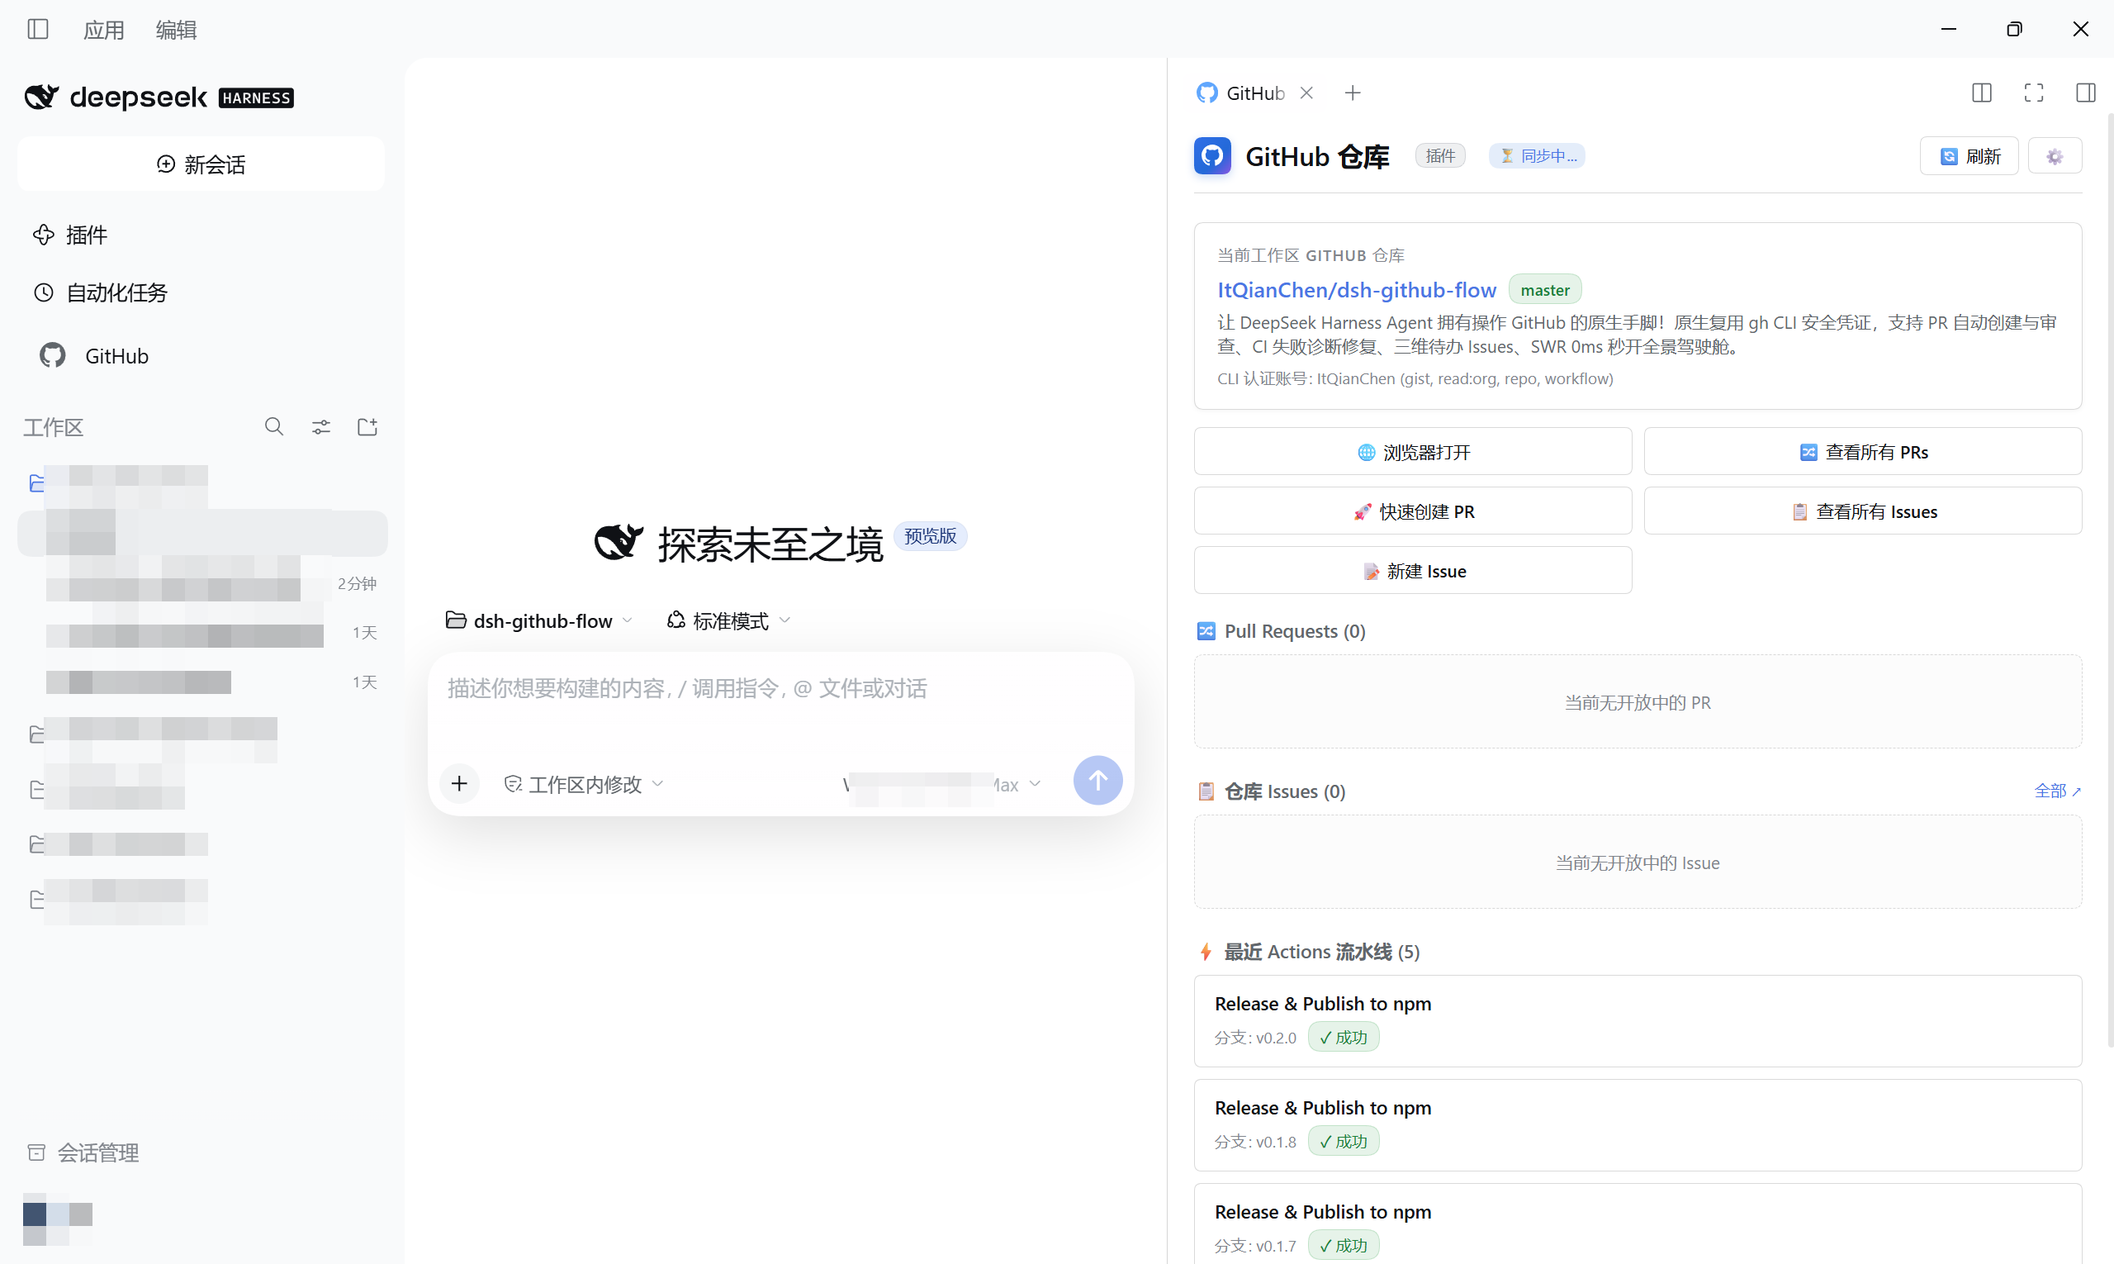
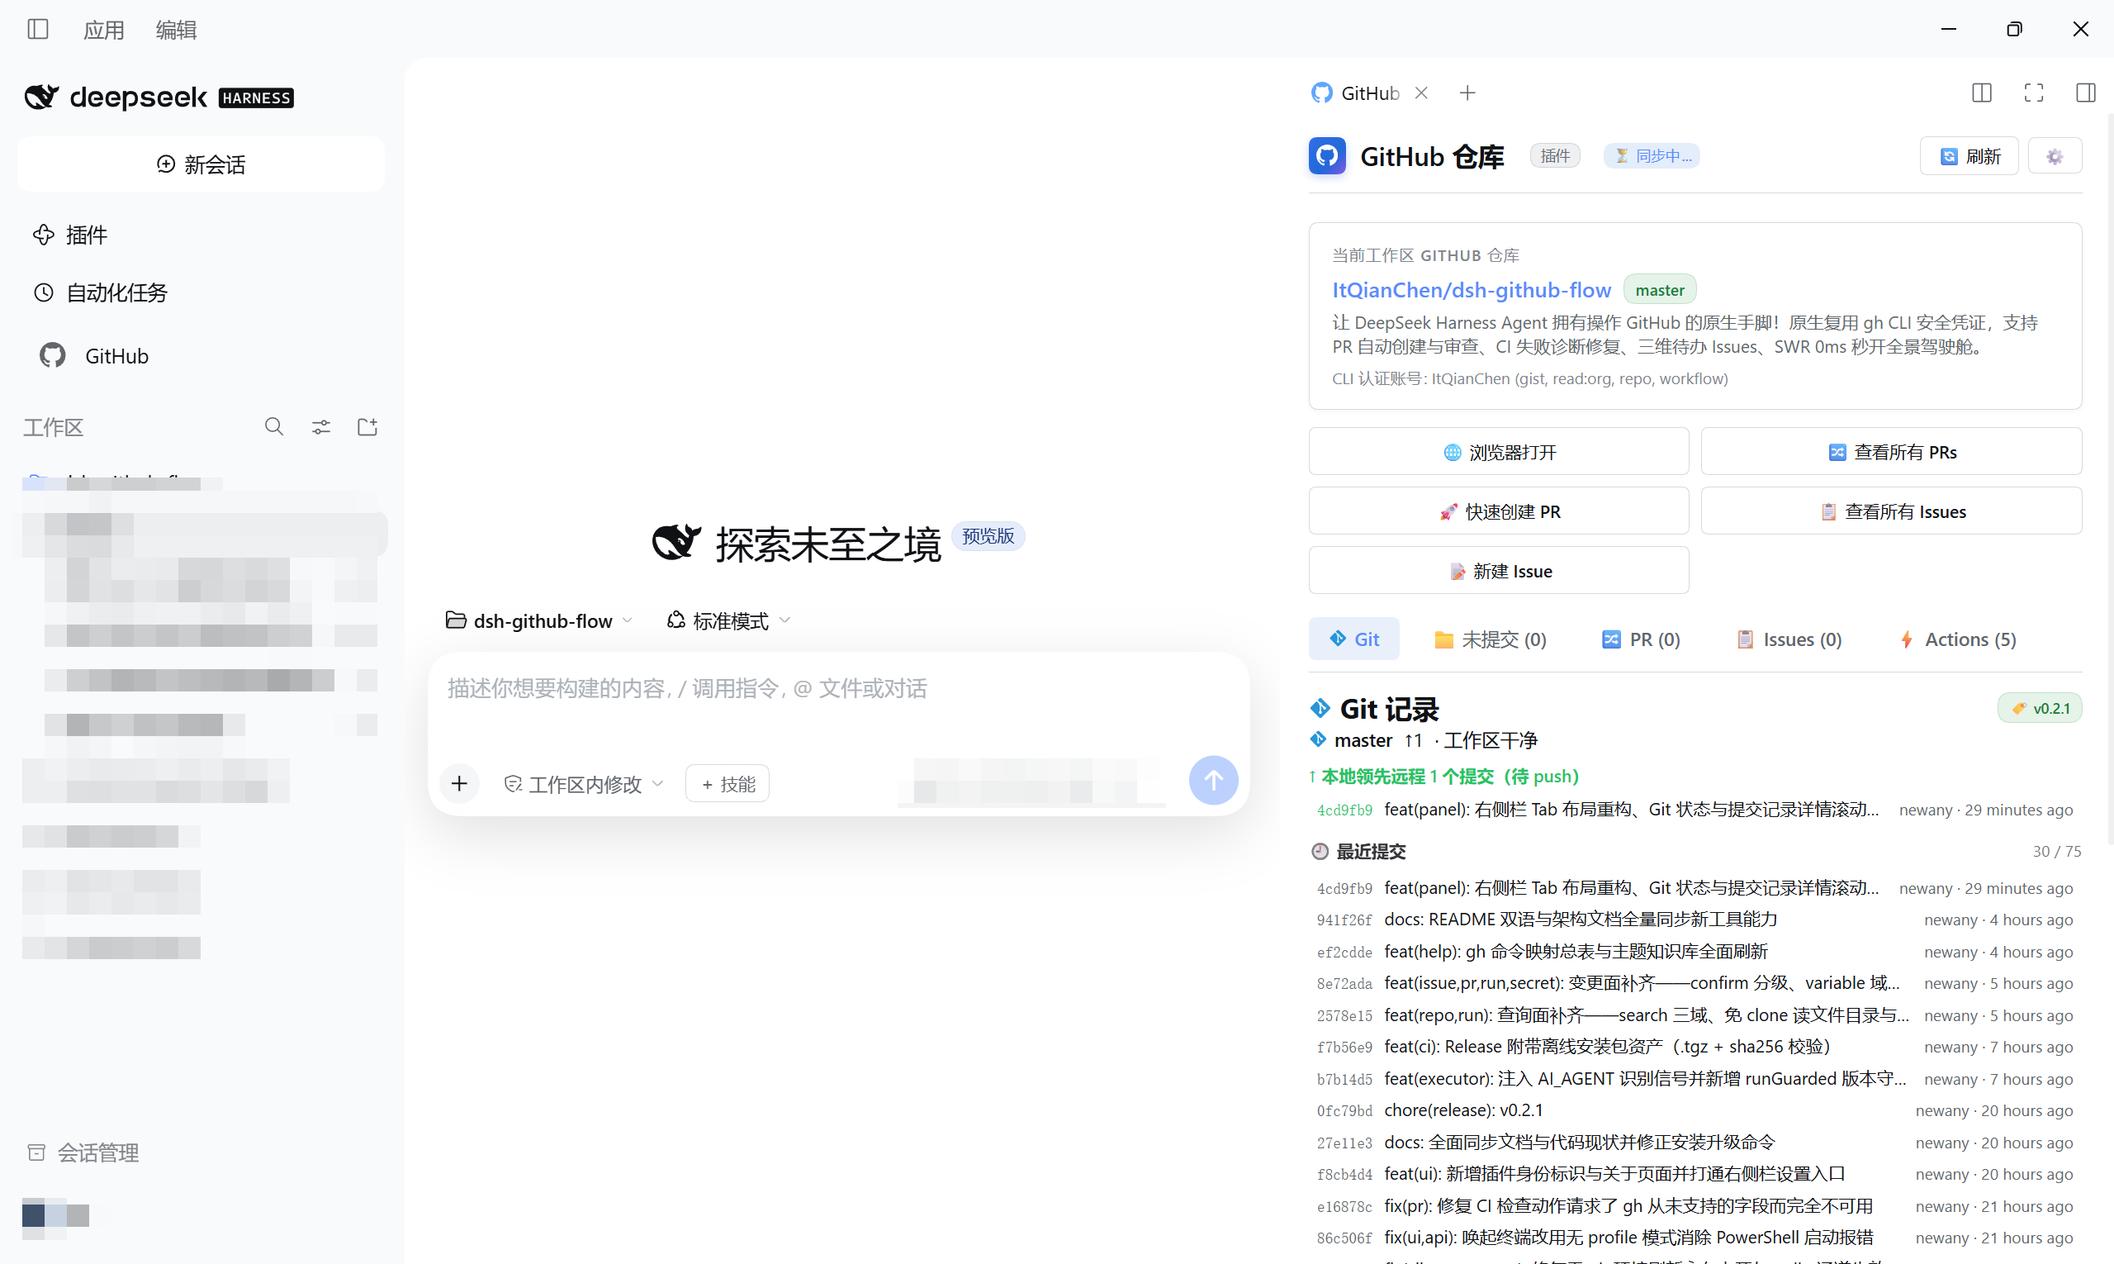
chore(release): v0.3.0

diff --git a/lib/version.d.ts b/lib/version.d.ts
@@ -6,7 +6,7 @@
  * 2. 避免在 ESM 运行时动态读取 package.json 引入 fs 权限和路径解析边界问题；
  * 3. 方便在 CI 发布流水线或 build 脚本中自动化校准。
  */
-export declare const CURRENT_PLUGIN_VERSION = "0.2.1";
+export declare const CURRENT_PLUGIN_VERSION = "0.3.0";
 export declare const PLUGIN_PACKAGE_NAME = "dsh-github-flow";
 export declare const NPM_PACKAGE_URL = "https://www.npmjs.com/package/dsh-github-flow";
 export declare const NPM_REGISTRY_MIRROR = "https://registry.npmmirror.com";

diff --git a/lib/version.js b/lib/version.js
@@ -6,7 +6,7 @@
  * 2. 避免在 ESM 运行时动态读取 package.json 引入 fs 权限和路径解析边界问题；
  * 3. 方便在 CI 发布流水线或 build 脚本中自动化校准。
  */
-export const CURRENT_PLUGIN_VERSION = '0.2.1';
+export const CURRENT_PLUGIN_VERSION = '0.3.0';
 export const PLUGIN_PACKAGE_NAME = 'dsh-github-flow';
 export const NPM_PACKAGE_URL = 'https://www.npmjs.com/package/dsh-github-flow';
 export const NPM_REGISTRY_MIRROR = 'https://registry.npmmirror.com';

diff --git a/src/version.ts b/src/version.ts
@@ -6,7 +6,7 @@
  * 2. 避免在 ESM 运行时动态读取 package.json 引入 fs 权限和路径解析边界问题；
  * 3. 方便在 CI 发布流水线或 build 脚本中自动化校准。
  */
-export const CURRENT_PLUGIN_VERSION = '0.2.1';
+export const CURRENT_PLUGIN_VERSION = '0.3.0';
 export const PLUGIN_PACKAGE_NAME = 'dsh-github-flow';
 export const NPM_PACKAGE_URL = 'https://www.npmjs.com/package/dsh-github-flow';
 export const NPM_REGISTRY_MIRROR = 'https://registry.npmmirror.com';

diff --git a/docs/architecture.md b/docs/architecture.md
@@ -64,15 +64,15 @@
 │                                                                             │
 │   ┌──────────────────────────────────┐    ┌─────────────────────────────┐   │
 │   │       全局驾驶舱 (Main Slot)      │    │  右侧栏面板 (Right Sidebar)  │   │
-│   │   - 账号全局所有 GitHub 仓库      │    │  - 当前会话工作区关联仓库   │   │
-│   │   - 本地工作区矩阵透视           │    │  - PR 列表与 CI Checks 药丸 │   │
-│   │   - 三维待办 Issues (药丸筛选)   │    │  - 仓库 Open Issues 任务列表│   │
-│   │   - 用户提单 / 分配待办 / 我发起 │    │  - 快捷操作网格 (直达入口)   │   │
-│   │   - 顶部升级通知横幅 (Banner)    │    │  - 紧凑微型升级指示条       │   │
-│   │   - 动态数据新鲜度胶囊与 SWR 缓存│    │  - 本地快照胶囊 (对齐规则)  │   │
-│   │   - 四分区设置弹窗 (同步/代理/   │    │  - ⚙ 完整设置入口 (复用    │   │
-│   │     更新源/关于)                │    │     主页同一弹窗组件)       │   │
-│   │   - 「插件」身份徽章 (关于直达)  │    │  - 「插件」身份徽章 (直达)  │   │
+│   │   - 账号全局所有 GitHub 仓库      │    │  - 五 Tab 互斥 (Git/未提交/ │   │
+│   │   - 本地工作区矩阵透视           │    │    PR/Issues/Actions)       │   │
+│   │   - 三维待办 Issues (药丸筛选)   │    │  - Git 记录与分支同步全景   │   │
+│   │   - 用户提单 / 分配待办 / 我发起 │    │  - 提交详情居中弹窗 (可滑动)│   │
+│   │   - 顶部升级通知横幅 (Banner)    │    │  - 下滑自动分页加载更多     │   │
+│   │   - 动态数据新鲜度胶囊与 SWR 缓存│    │  - 快捷操作网格与设置入口   │   │
+│   │   - 四分区设置弹窗 (同步/代理/   │    │  - 官方标准 Git 矢量图标    │   │
+│   │     更新源/关于)                │    │  - 「插件」身份徽章 (直达)  │   │
+│   │   - 「插件」身份徽章 (关于直达)  │    │                             │   │
 │   └──────────────────────────────────┘    └─────────────────────────────┘   │
 └─────────────────────────────────────────────────────────────────────────────┘
 ```
@@ -176,4 +176,17 @@
 - **数据链路超时防线**：
   - 全部前端数据链路 fetch 绑定 `AbortController`（45s 兜底；登录探测 10s）——代理劫持回环地址等极端场景下用户得到明确超时出口，绝不永久转圈（未安装 gh 用户的刷新卡死修复）；
   - 后端 `gh` 探测毫秒级返回 ENOENT/安装引导，前端安装引导卡（AuthGuideCard）承载唤起终端（stdio ignore，无 profile）等自愈出口。
+
+### 2.10 右侧栏五 Tab 互斥与本地 Git 状态全景架构 (Right Sidebar Tabs & Local Git Engine)
+- **五 Tab 响应式互斥布局**：
+  - 将右侧栏原本纵向堆叠的 PR / Issues / Actions / Git 状态与未提交清单彻底重构成水平紧凑 Tab（Git / 未提交 / PR / Issues / Actions），默认激活 Git 记录页，首屏高度收敛 60% 以上；
+  - 纯函数渲染约束与 DOM 级状态：`renderGithubRepoView` 坚守零 React Hooks 约束，激活态通过 `data-active-tab` 挂载在 DOM 容器上；根组件通过 `useEffect([data])` 与 `applyTabState` 联动，在 SWR 后台拉新完成触发重渲染时，自动重置回用户选择的 Tab，彻底解决后台数据刷新拽回默认 Tab 的缺陷。
+- **三段式提交日志与本地 0ms 秒开**：
+  - 本地领先（待 push）、远程领先（待 pull，快照口径）与最近提交历史；
+  - 采用 ASCII 单元/记录控制符（`%x1e` / `%x1f`）结构化解析 `git log`，一次性提取 fullSha、author、email、date、多行 body 说明与 `--stat` 文件改动统计，首屏 0ms 纯本地呈现，零网络失败风险；
+  - 默认展示 15 条，通过右侧栏容器 `onScroll` 触底（<80px）与点击双重触发向后分页拉取，伴随实时进度计数（如 `15 / 74`）。
+- **内嵌模态弹窗 (CommitDetailModal)**：
+  - 复用设置弹窗架构（`.dsh-github-modal-overlay` + `.dsh-github-modal-dialog`），挂载在右侧栏容器内部，天然受限于右侧栏边界居中，彻底消除传统 `<dialog>` 顶层穿透全屏居中的越界问题；
+  - 弹窗外框限制 `max-height: 84vh; overflow: hidden;`，正文区域 `flex: 1; min-height: 0; overflow-y: auto;`，完美支持上下滑动浏览数十行详细正文与修改文件统计，支持 Esc 键与点击遮罩随手退出。
+- **全库统一 Git 官方矢量图标**：全量替换各处的植物/字符符号为标准 Git 菱形分支官方矢量组件（`#1296db` SVG）。
 

diff --git a/README.en.md b/README.en.md
@@ -249,14 +249,23 @@ Access via the GitHub icon in the main left navigation:
 </p>
 
 ### 2. Session Right Sidebar Panel (Workspace Drawer)
-Located in the right drawer of every chat workspace:
-* **Context Auto-Binding**: Automatically locks onto the active Git repository;
-* **Freshness Pill Alignment**: Compact indicator `[📦 Local Snapshot (2m ago)]` with live `[🔄 Refresh]` button, 100% aligned with global rules;
-* **PR Status Pills**: Live PR inspection with CI checks and review badges;
-* **Workspace Open Issues List**: Direct issue task review with author badges and external links;
-* **Latest Actions Pipeline**: Real-time CI workflow status tracking;
+Located in the right drawer of every chat workspace, seamlessly bridging your local Git workspace with remote GitHub repositories:
+* **Context Auto-Binding**: Automatically locks onto the active Git repository of the current session;
+* **Freshness Pill Alignment**: Compact indicator `[📦 Local Snapshot (2m ago)]` with live `[🔄 Refresh]` button, 100% aligned with global rules for an instant 0ms first render;
 * **Quick Action Grid**: Open repo in browser, jump to Issues/PRs, create PRs with one click;
-* **⚙ Full Settings Access**: The sidebar offers its own settings button reusing the same settings modal as the cockpit (all four sections: Sync / Proxy / Update Source / About) — no need to switch back to the main page.
+* **Five Mutually Exclusive Tabs**: Compact tabbed navigation directly below the quick action grid, reducing vertical scrolling:
+  * **Git Records (`Git`)** (Default tab):
+    * Branch & Remote Sync: Real-time branch indicator (e.g. `master`) with tracking sync status (`✓ Up to date` or `↑N to push` / `↓N to pull`);
+    * Three-Section Commit View: Unpushed commits (ahead of remote), unpulled commits (behind remote), and recent commit history;
+    * 15 commits displayed by default, with **infinite scroll loading** when scrolling to the bottom (with live `15 / 74` progress counter and click trigger);
+    * Latest Release badge (`🏷 v0.2.1`) anchored in the top right with hover details and direct release link;
+    * **Commit Detail Modal**: Click any commit row to open a clean modal dialog centered within the right sidebar (scoped inside drawer boundaries without overflowing full-screen), featuring smooth vertical scrolling, full 40-char SHA, author email, date, multi-line commit message body, and file diff stat table (`--stat`); pure local 0ms instant display, closable via `Esc`, close button, or backdrop click;
+  * **Uncommitted Changes (`📁 Uncommitted (N)`)**: Full-width list of uncommitted files with color-coded status codes (`??` untracked, `M` modified, `D` deleted, `R` renamed) and change counts;
+  * **Pull Requests (`🔀 PR (N)`)**: Open PR inspection with 3-state CI check rollup (`✅ CI Passed` / `❌ CI Failed` / `⏳ CI Pending`), merge conflict detection, review decisions (`✔ Approved` / `✋ Changes Requested` / `👀 Review Required`), Draft pills, and humanized relative timestamps;
+  * **Workspace Issues (`📋 Issues (N)`)**: Direct issue task review with assignees, labels, and category pills;
+  * **Actions Pipeline (`⚡ Actions (N)`)**: Real-time CI workflow status tracking with trigger event badges (`push`/`schedule`/`manual`/`PR`), relative time, and self-healing diagnostic notes for failed runs (embedding `run_id` for Agent one-click log inspection);
+* **Official Git Vector Icon**: High-definition Git diamond vector icon (`#1296db` SVG) across all Git and branch labels;
+* **⚙ Full Settings Access**: Dedicated settings button reusing the same settings modal as the cockpit (all four sections: Sync / Proxy / Update Source / About) — no need to switch back to the main page.
 
 <p align="center">
   <img src="./docs/images/2.png" alt="Session Right Sidebar Panel" width="100%" />

diff --git a/README.md b/README.md
@@ -248,14 +248,23 @@ dsh plugin --profile web add dsh-github-flow
 </p>
 
 ### 2. 会话右侧栏工作区面板 (Session Workspace Panel)
-位于每个对话工作区的右侧抽屉栏：
-* **当前仓库上下文绑定**：自动锁定当前会话的 Git 仓库，无需选择；
+位于每个对话工作区的右侧抽屉栏，深度联动本地 Git 状态与远程 GitHub 仓库：
+* **当前仓库上下文绑定**：自动锁定当前会话的物理 Git 仓库，展示远程关联与认证账号；
 * **数据新鲜度胶囊对齐**：标题旁紧凑呈现 `[📦 本地快照 (2分钟前)]` 与 `[🔄 刷新]` 按钮，与主页规则 100% 保持一致，首屏 0ms 瞬间直出；
-* **PR 门禁状态药丸**：展示当前开放 PR，悬停查看 Checks 结果与审核意见；
-* **当前仓库 Open Issues 列表**：直接在侧边栏审查待办任务并提供直达链接；
-* **最新 Actions 构建流水线**：实时关注 CI 状态；
 * **快捷操作网格**：一键在浏览器打开仓库、直达 Issues/PRs、一键创建 PR；
-* **⚙ 完整设置入口**：右侧栏同样提供设置按钮，与主页复用同一设置弹窗（数据同步 / 网络代理 / 更新设置 / 关于 四分区完整可用），无需切回主页调整。
+* **五大 Tab 布局响应式互斥切换**：快捷操作下方采用紧凑 Tab 架构，内容区互斥展示、大幅降低纵向滚动需求：
+  * **Git 记录 (`Git`)**（默认首屏）：
+    * 分支与同步状态：展示当前分支（如 `master`）与远程同步快照（`✓ 与远程同步` 或 `↑N 待 push` / `↓N 待 pull`）；
+    * 三段式提交视图：待推送提交（本地领先）、待拉取提交（远程领先）及最近提交列表；
+    * 默认展示 15 条，支持**向下滑动触底自动分页加载**（伴随 `15 / 74` 实时进度提示与点击后备）；
+    * 右上角锚定最新发布 Release 徽章（`🏷 v0.2.1`），悬停查看发布时间与预发布标示，点击直达；
+    * **提交详情模态弹窗**：点击任意提交记录行，在右侧栏内局部居中弹出（与设置弹窗同构，不全屏越界），内置上下滑动区域，完整展示 40 位 SHA、提交者姓名邮箱、日期、多行详细正文说明与文件变更统计（`--stat`），纯本地 0ms 秒开，支持按 `Esc` 或点击遮罩随时关闭；
+  * **未提交清单 (`📁 未提交 (N)`)**：展示工作区未提交的文件清单，状态码色彩区分（`??` 新增、`M` 修改、`D` 删除、`R` 重命名）与变更总数；
+  * **拉取请求 (`🔀 PR (N)`)**：展示当前开放 PR，带有三态 CI 门禁（`✅ CI 通过` / `❌ CI 失败` / `⏳ CI 运行中`）、冲突检测、审核判定（`✔ 已批准` / `✋ 需修改` / `👀 待审查`）、Draft 草稿标示与人性化相对时间；
+  * **仓库议题 (`📋 Issues (N)`)**：直接在侧边栏审查待办任务，支持指派者、标签与多维状态药丸；
+  * **构建流水线 (`⚡ Actions (N)`)**：实时关注工作流 CI 状态，展示触发方式（`push`/`定时`/`手动`/`PR`）、相对时间与失败构建的 Agent 自愈诊断指引（嵌入 run_id）；
+* **全库统一 Git 官方矢量图标**：采用标准 Git 菱形分支官方矢量组件（`#1296db` SVG），全面统一各处 Git 标识；
+* **⚙ 完整设置入口**：右侧栏提供设置按钮，与主页复用同一设置弹窗（数据同步 / 网络代理 / 更新设置 / 关于 四分区完整可用），无需切回主页调整。
 
 <p align="center">
   <img src="./docs/images/2.png" alt="右侧栏工作区面板" width="100%" />

diff --git a/docs/UPGRADE-NOTES.md b/docs/UPGRADE-NOTES.md
@@ -10,8 +10,8 @@
 
 | # | 文件 | 位置 | 当前值 | 说明 |
 |---|---|---|---|---|
-| 1 | [package.json](../package.json) | 第 3 行 `"version": "0.2.1"` | `0.2.1` | npm 发布版本、CI 取版来源 |
-| 2 | [src/version.ts](../src/version.ts) | 第 9 行 `CURRENT_PLUGIN_VERSION = '0.2.1'` | `'0.2.1'` | 运行时版本比较基准（假横幅的教训来源） |
+| 1 | [package.json](../package.json) | 第 3 行 `"version": "0.3.0"` | `0.3.0` | npm 发布版本、CI 取版来源 |
+| 2 | [src/version.ts](../src/version.ts) | 第 9 行 `CURRENT_PLUGIN_VERSION = '0.3.0'` | `'0.3.0'` | 运行时版本比较基准（假横幅的教训来源） |
 
 **两处必须同值**。`pnpm run build` 会硬校验（[scripts/build.mjs](../scripts/build.mjs) 的
 `assertVersionConsistency`），不一致直接构建失败——但不要依赖拦截，发版前手动核对。
@@ -41,28 +41,28 @@
 | # | 机制 | 说明 |
 |---|---|---|
 | 9 | CI 取版（.github/workflows/npm-publish.yml:62） | `VERSION=$(node -p "require('./package.json').version")`——从 package.json 读，无硬编码 |
-| 10 | Git tag | `git tag v0.2.1` 手动打，值必须 = package.json 版本（tag 与 package.json 不一致时：CI 发布的 npm 版本以 package.json 为准，GitHub Release 标题以 tag 为准，出现两者错位） |
+| 10 | Git tag | `git tag v0.3.0` 手动打，值必须 = package.json 版本（tag 与 package.json 不一致时：CI 发布的 npm 版本以 package.json 为准，GitHub Release 标题以 tag 为准，出现两者错位） |
 
 ## 五、发版完整流程（含版本修改）
 
 ```powershell
 # 1. 改版本（两处同值）
-#    package.json  → "version": "0.2.1"
-#    src/version.ts → CURRENT_PLUGIN_VERSION = '0.2.1'
+#    package.json  → "version": "0.3.0"
+#    src/version.ts → CURRENT_PLUGIN_VERSION = '0.3.0'
 
 # 2. 文档已用占位符（npm-publish-guide 示例、README 安装命令），发版无需改文档版本号
 
 # 3. 构建（版本一致性校验在此拦截漏改）+ 全量测试
 pnpm run build
-pnpm test    # 9 阶段全绿
+pnpm test    # 11 阶段全绿
 
 # 4. 本机 e2e（必须先重启 DSH 桌面进程——Node 模块缓存，软链重建不注入运行中进程）
-#    重启后验证：GET /api/github/check-update 的 currentVersion = 0.2.1
+#    重启后验证：GET /api/github/check-update 的 currentVersion = 0.3.0
 
 # 5. 提交 + 打 tag + 推送（tag 值 = package.json 版本）
 git add -A
-git commit -m "chore(release): v0.2.1"
-git tag v0.2.1
+git commit -m "chore(release): v0.3.0"
+git tag v0.3.0
 git push origin master --tags
 #    CI（npm-publish.yml）自动：构建→发布 npm→创建 GitHub Release
 
